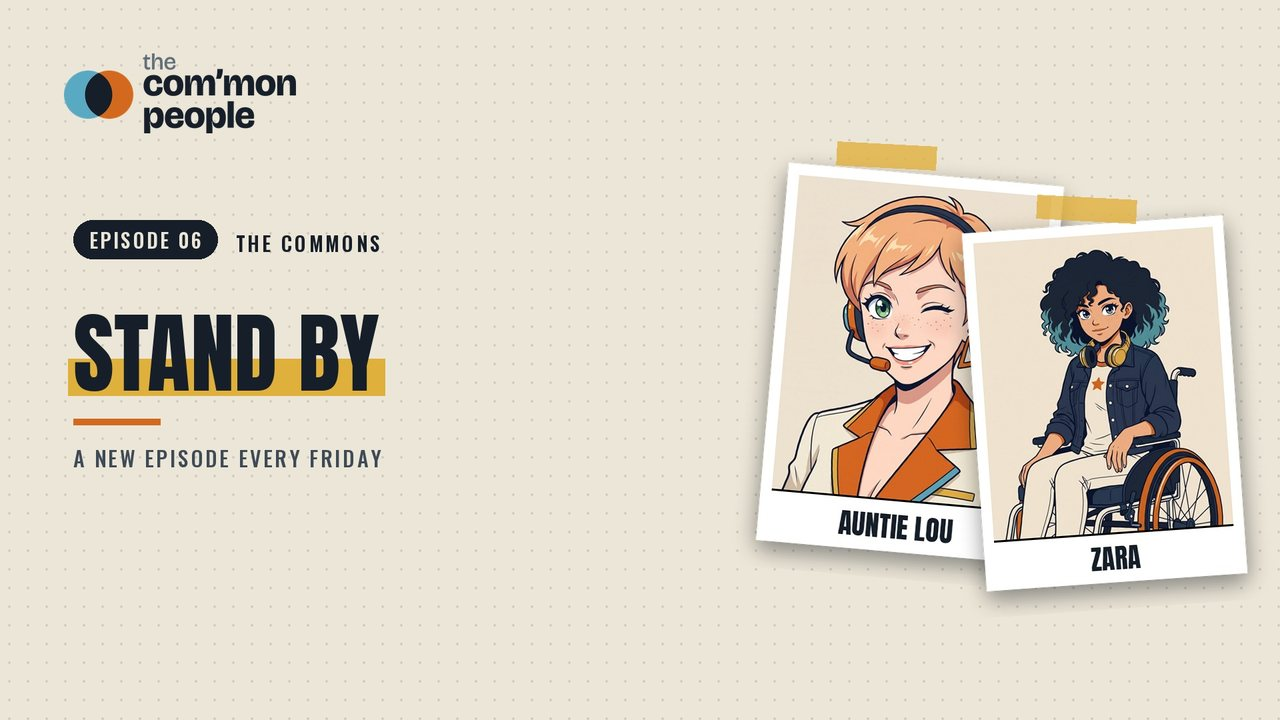
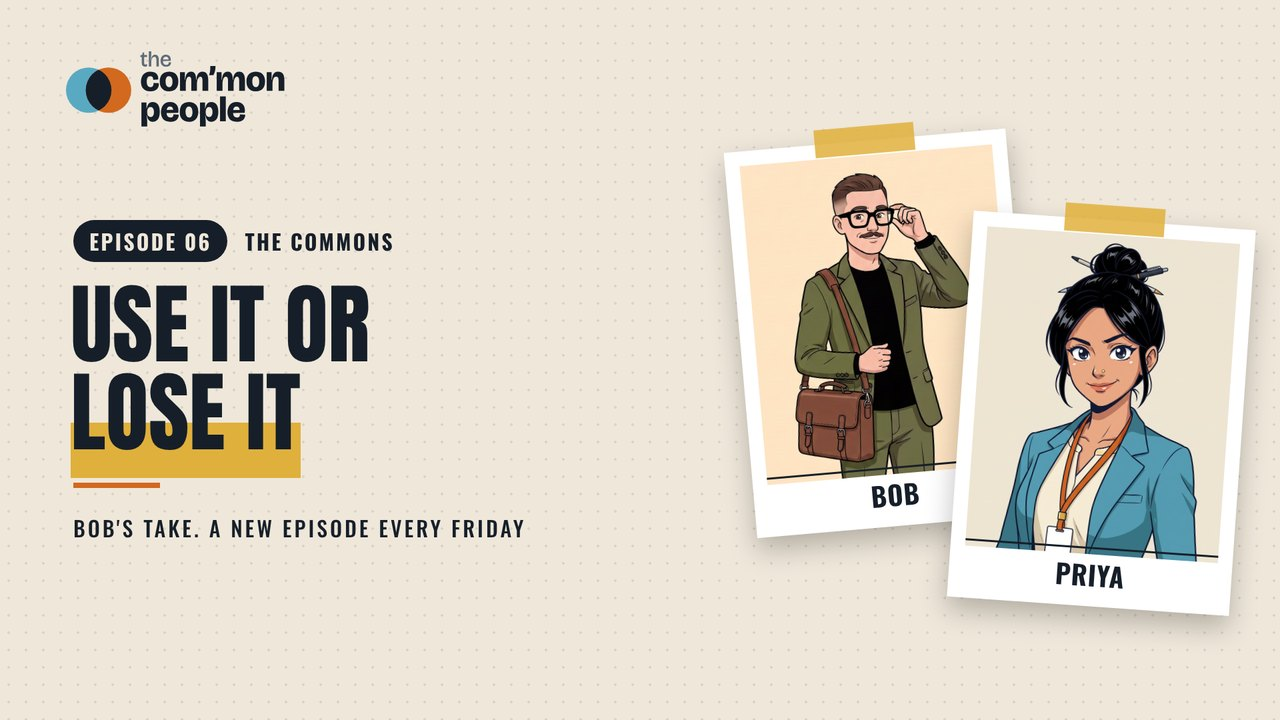
The Commons: Bob's Take episode plan on the site
Episodes 2 and 4 to 8 rebuilt around the Dispatches and campaigns,
narrated by Bob, with new title cards.

Claude-Session: https://claude.ai/code/session_01Dmn5yDPAphz6WQLtKeThKj

diff --git a/commons-episodes.js b/commons-episodes.js
@@ -26,27 +26,27 @@ var EPISODES = [
     res:[["The CV that gets read","guide-cv.html"],["Comquat CV Rewrite (free)","https://cv.the-common-people.com"]],
     captions:"videos/episode-01.vtt",
     read:[["s", "Title card: The Commons, Episode 01. Thirty-One Years and a Floppy Disk. Photos of Nan Dee and Zara. Music plays."], ["s", "A warehouse at night. Nan Dee, in a hi-vis vest and holding a clipboard, waves a lorry off."], ["Nan Dee", "Thirty-one years I ran the night shift. Lorries out the door before the sun was up."], ["s", "An office. A manager gives a nervous double thumbs up next to a droopy balloon. Nan Dee holds a little cactus and a letter. She is not impressed."], ["Nan Dee", "Then one Tuesday, they thanked me for my service."], ["s", "The loft, lit by a torch. Nan Dee holds a floppy disk up like treasure."], ["Nan Dee", "So I dug out my CV. It was in the loft. On a floppy disk."], ["s", "The kitchen. Zara, in her wheelchair, holds the floppy disk at arm's length. Nan Dee folds her arms."], ["Nan Dee", "Our Zara looked at it like it was a fossil. “Nan, nothing can even open that.”"], ["s", "An old computer shows a purple CV in Comic Sans, with Nan Dee's photo. Nan Dee shows it off proudly. Zara slumps back with her hand on her forehead."], ["Nan Dee", "We got it open. Purple. Comic Sans. A photo of me in shoulder pads. Zara had to have a lie down."], ["s", "The kitchen table, with coffee and biscuits. Zara points at a laptop while Nan Dee types, tongue out in concentration."], ["Nan Dee", "Her advice? Stop listing duties. Say what you actually did. Two pages, plain font, every word earning its place."], ["s", "An interview room. Nan Dee and the interviewer shake hands, both smiling."], ["Nan Dee", "Turns out thirty-one years of keeping the lights on is exactly what they were after."], ["s", "Back to the purple Comic Sans CV on the old computer."], ["Nan Dee", "If your CV’s older than your grandkids, there’s a free guide for that. Come on."], ["s", "End card: Free help from this episode. The CV that gets read. Comquat CV Rewrite (free). the-common-people.com. New episodes every Friday. Free, always."]] },
-  { num:2, date:"2026-11-27", title:"Read Receipts", stars:["zara","bowie"], img:"zara", video:"videos/episode-02.mp4",
-    blurb:"Zara smashes a final interview. Then nothing. Days of nothing. Bowie and Ozzy stage a sit-in by her phone while the family debate whether no news is good news.",
-    res:[["#StopGhostingJobSeekers","dispatch-stop-ghosting.html"],["Comquat Interview Prep (free)","prep-report.html"]] },
+  { num:2, date:"2026-11-27", title:"Over to You", stars:["bob","marcus"], img:"bob", video:"videos/episode-02.mp4",
+    blurb:"Bob's Take. Marcus wants to take on an apprentice and has loads of questions about doing it right. So Bob goes over. That's his job. His advice: call your local college, get them in to look at your plan and your skills gaps, then it's over to you.",
+    res:[["#KeepItLocal","dispatch-your-levy-their-town.html"],["Apprenticeships, explained","apprenticeships.html"]] },
   { num:3, date:"2026-11-13", title:"Sunday Roast, Monday Interview", stars:["kai","priya"], img:"kai", video:"videos/episode-03.mp4", poster:"videos/episode-03-poster.jpg",
     blurb:"Kai can cook for twelve without breaking a sweat. Talking about himself for ten minutes is another story. Priya runs a very strict mock interview across the gravy.",
     res:[["Interview prep guide","guide-interview-prep.html"],["Apprenticeships, explained","apprenticeships.html"]],
     captions:"videos/episode-03.vtt",
     read:[["s", "Title card: The Commons, Episode 03. Sunday Roast, Monday Interview. Told by Kai, future chef. Music plays."], ["s", "A busy home kitchen. Kai, in a yellow hoodie with a tea towel on his shoulder, cooks a roast with trays of Yorkshire puddings. He's grinning."], ["Kai", "Sunday dinner for twelve? Easy. Roast in at eleven, Yorkshires at quarter to two, and gravy that’d make you cry."], ["s", "After dinner, among the empty plates and roasting tins, Kai stares at his phone in shock."], ["Kai", "Then this lands. An interview. Apprentice chef. Monday morning."], ["s", "Night. Kai sits at his desk surrounded by screwed-up paper, chewing his pen and clutching his hair. Then he slumps over the desk."], ["Kai", "Cooking, I can do. Talking about myself for ten minutes? My brain just goes... blank."], ["s", "The dinner table. Priya, in a blazer with a clipboard, interviews Kai across the gravy boat. Kai looks worn out."], ["Kai", "So Priya runs a mock interview. Across the gravy. She is not messing about."], ["s", "Close up: Kai writes 1, 2, 3 on a notepad, with little drawings of a ladle and a whisk."], ["Kai", "Her trick? Tell it like a recipe. What you made. How you made it. How it turned out."], ["s", "Monday. Kai stands in the doorway of a busy restaurant kitchen full of chefs."], ["Kai", "Monday. Same nerves. But this time, I had my recipes."], ["s", "Home. Kai bursts through the front door holding up his phone. The dogs, Bowie and Ozzy, jump up to greet him."], ["Kai", "Did I get it? Let’s just say..."], ["s", "Ozzy throws his head back and howls."], ["Ozzy", "AWOOOOOO!"], ["Kai", "Ozzy howled."], ["s", "End card: Free help from this episode. Interview prep guide. Apprenticeships, explained. Free to read. Free to share. the-common-people.com. The Commons. A new episode every Friday."]] },
-  { num:4, date:"2026-12-04", title:"The Paperwork Staircase", stars:["marcus","kai"], img:"marcus", video:"videos/episode-04.mp4",
-    blurb:"Marcus decides to take on his first apprentice and meets his greatest enemy yet: the funding rules. He builds a staircase to escape. It does not help.",
-    res:[["Apprenticeship guidance","apprenticeships.html"],["The Apprenticeship Paradox","dispatch-apprenticeship-paradox.html"]] },
-  { num:5, date:"2026-12-11", title:"Two Hundred and Eighty", stars:["priya","marcus"], img:"priya", video:"videos/episode-05.mp4",
-    blurb:"Priya opens her inbox to around 280 applications for one role (the UK average, according to Modern CV's UK Job Interview Statistics 2026). Not one mentions the job. She needs a better plan and a board that will listen.",
-    res:[["The Commons Report","dispatch-report-hertfordshire.html"],["Embed apprenticeships in HR","dispatch-embed-apprenticeships.html"]] },
-  { num:6, date:"2026-12-18", title:"Stand By", stars:["lou","zara"], img:"lou", video:"videos/episode-06.mp4",
-    blurb:"Auntie Lou has run festivals for thousands, but one LinkedIn headline brings her to her knees. Zara offers help. Lou offers a clipboard. Chaos, with a running order.",
-    res:[["LinkedIn, properly","guide-linkedin.html"],["The intro video guide","guide-video-intro.html"]] },
-  { num:7, date:"2027-01-08", title:"The Robots Are Reading", stars:["dee","kai"], img:"dee", video:"videos/episode-07.mp4",
-    blurb:"Dee is convinced a computer binned her application before a human saw it. Kai tries to explain AI. Dee writes a strongly worded letter to the algorithm.",
-    res:[["The EU AI Act, explained","dispatch-eu-ai-act.html"],["Comquat CV Rewrite (free)","https://cv.the-common-people.com"]] },
-  { num:8, date:"2027-01-15", title:"Woof. Woof.", stars:["bowie","dee","marcus","priya","zara","kai","lou"], img:"bowie-ozzy", video:"videos/episode-08.mp4",
-    blurb:"Series finale. The whole family gathers for a celebration and Bowie and Ozzy steal the show. Someone gets a job. Someone gets an apprentice. Ozzy gets the sausage rolls.",
-    res:[["Subscribe to The Loudspeaker","loudspeaker.html"],["Browse the field guides","guides.html"]] }
+  { num:4, date:"2026-12-04", title:"The Silence", stars:["bob","zara"], img:"bob", video:"videos/episode-04.mp4",
+    blurb:"Bob's Take. Zara smashes a final interview. Then nothing. Bob spent nine years in recruitment, so he's putting his hands up: ghosting isn't busy, it's rude, and it does real damage. What hiring managers and candidates can do about it.",
+    res:[["#StopGhostingJobSeekers","dispatch-stop-ghosting.html"],["Comquat Interview Prep (free)","prep-report.html"]] },
+  { num:5, date:"2026-12-11", title:"Who Trained Them?", stars:["bob","priya"], img:"bob", video:"videos/episode-05.mp4",
+    blurb:"Bob's Take. Priya wants experienced staff for her hotels. Bob asks her one question: who trained them? You don't have a skills shortage. You have a training shortage. Here's how to grow your own.",
+    res:[["You don't have a skills shortage","dispatch-training-shortage.html"],["Embed apprenticeships in HR","dispatch-embed-apprenticeships.html"]] },
+  { num:6, date:"2026-12-18", title:"Use It or Lose It", stars:["bob","priya"], img:"bob", video:"videos/episode-06.mp4",
+    blurb:"Bob's Take. Priya finds out her levy money now has a shorter shelf life: from 2026/27, funds expire after 12 months instead of 24 (official guidance, as set out in our Dispatch). Bob's view: unspent levy should pay a young apprentice's first-year wage.",
+    res:[["Your levy, explained","dispatch-levy-2026.html"],["#PayTheFirstYear","dispatch-first-year-wage.html"]] },
+  { num:7, date:"2027-01-08", title:"The Robots Are Reading", stars:["bob","dee"], img:"bob", video:"videos/episode-07.mp4",
+    blurb:"Bob's Take. Nan Dee hasn't written a CV since 1994, so she asks a chatbot. It sounds like everyone else's. Bob's view: AI is a tool, not a ghostwriter. Two applications that sound like you beat fifty that sound like a robot.",
+    res:[["AI CVs: the honest truth","dispatch-ai-cvs.html"],["Comquat CV Rewrite (free)","https://cv.the-common-people.com"]] },
+  { num:8, date:"2027-01-15", title:"Investigate the Stereotype", stars:["bob","kai"], img:"bob", video:"videos/episode-08.mp4",
+    blurb:"Bob's Take. Someone tells Kai his generation doesn't want to work. Bob goes looking for the evidence. Don't argue with the stereotype. Investigate it.",
+    res:[["Don't argue with the stereotype","dispatch-investigate-the-stereotype.html"],["Apprenticeships, explained","apprenticeships.html"]] }
 ];

diff --git a/commons-family.html b/commons-family.html
@@ -396,7 +396,7 @@
   </div>
 </footer>
 
-<script src="commons-episodes.js?v=20261121special"></script>
+<script src="commons-episodes.js?v=20261122bob"></script>
 <script>
 /* Episode list and release dates live in commons-episodes.js */
 
@@ -440,7 +440,7 @@ var FAMILY = {
 };
 
 function img(k){ return "img/commons-family/" + k + ".jpg"; }
-function card(ep){ return "img/commons-episodes/episode-" + String(ep.num).padStart(2,"0") + "-title-card.jpg"; }
+function card(ep){ return "img/commons-episodes/episode-" + String(ep.num).padStart(2,"0") + "-title-card.jpg?v=20261122"; }
 function esc(s){ return String(s).replace(/[&<>"]/g,function(ch){return {"&":"&amp;","<":"&lt;",">":"&gt;",'"':"&quot;"}[ch];}); }
 function parseDay(d){ var p=d.split("-"); return new Date(+p[0], +p[1]-1, +p[2], 0, 0, 0); }
 function niceDate(d){ return parseDay(d).toLocaleDateString("en-GB",{weekday:"short", day:"numeric", month:"short"}); }

diff --git a/index.html b/index.html
@@ -257,7 +257,7 @@
   });}
 })();
 </script>
-<script src="commons-episodes.js?v=20261121special"></script>
+<script src="commons-episodes.js?v=20261122bob"></script>
 <script>
 /* Homepage: always show the latest Commons episode that is out (dates and videos live in commons-episodes.js) */
 (function(){
